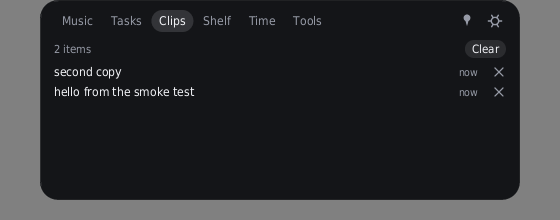
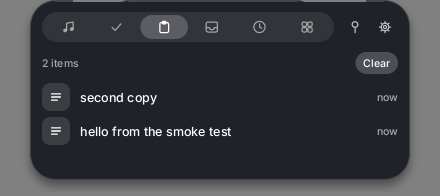
docs: glass UI screenshots, budgets and test results
Smoke tests: banner checks (a due to-do banners, a track change does
not), every tab captured on X11, new panel geometry. The Windows smokes
wait for an idle keyboard and mouse and capture only the pill window.
README and TESTING carry the new numbers; ADR-018 (no blur) and ADR-019
(Glass UI) record the decisions.

Changed region(s): [[0.0591, 0.0, 0.9159, 0.949], [0.7977, 0.0306, 0.9455, 0.8878]]

diff --git a/TESTING.md b/TESTING.md
@@ -19,7 +19,8 @@ Environments:
 | `cargo fmt --all --check` | Windows, container | clean |
 | `cargo clippy --workspace --all-targets -- -D warnings` | Windows (default features; GNU can't build `speech`) | clean (0 warnings) |
 | `cargo clippy --workspace --all-targets --all-features --locked -- -D warnings` | container | clean (0 warnings) |
-| `cargo test --workspace` | Windows | 316 passed, 0 failed, 5 ignored (opt-in hardware tests, run separately below) |
+| `cargo test --workspace` | Windows | 388 passed, 0 failed, 7 ignored (opt-in hardware tests, run separately below, and the release-only render budget) |
+| `cargo test --release -p perch-ui --test budget` | Windows | settled Music panel: **1.9 ms at 1×, 6.5 ms at 2×** (budgets 4 / 8 ms) |
 | `cargo test --workspace --all-features --locked` | container | all passed, 0 failed |
 | `cargo audit` | Windows | 0 vulnerabilities; 7 warnings: 6 unmaintained crates (paste, proc-macro-error, ttf-parser, zbus_names, zvariant, zvariant_derive) and `glib` 0.18 "unsound", which is only in the lockfile through `tray-icon`'s Linux GTK deps and is never compiled (tray-icon is Windows-only here; Linux uses ksni) |
 
@@ -38,8 +39,15 @@ What the tests cover (`cargo test` lists each one):
   picker, checksums and resampling. Opt-in tests that touch hardware are
   `#[ignore]`d: `audio` (makes sound), `camera` (switches the webcam on),
   `speech` end to end (downloads a model).
-- **ui**: screenshot overlay state (selection, crop, pen/arrow/text, copy),
-  mirror math, rendering of each panel tab without a window.
+- **ui**: screenshot overlay state (selection, crop, pen/arrow/text, copy)
+  and its glass toolbar, the rounded mirror frame, rendering of each panel
+  tab, the pill and banners without a window, glass components (rows,
+  sliders, switches), icons inside their boxes, cached shadows and glow,
+  fonts (Inter with lazily loaded fallback, tabular digits, eliding), the
+  settings form (groups, segmented choices, status rows, masked secrets).
+- **motion**: the spring (overshoot, settling, microsecond steps), the
+  notch open/close timing, tab and size motion, reduced motion, the banner
+  queue (4 s, hover pause, merging, cap of three).
 - **platform-linux** (container, private bus): MPRIS against a mock player,
   notifications and screen-lock signals (`--test mpris --test session_bus`),
   PulseAudio per-app volume against a null sink (`scripts/pulse-test.sh`).
@@ -50,21 +58,27 @@ Real windows, real synthetic input (`SendInput`), real SMTC. The scripts check
 that the mouse is idle before they start and never screenshot more than the
 notch area.
 
-### `scripts/smoke-windows.ps1`: 26/26 passed
+### `scripts/smoke-windows.ps1`: 28/28 passed
+
+It waits until the keyboard and mouse have been idle for 60 s (`scripts/lib-idle.ps1`),
+so it never fights a person at the machine, and captures only the pill window.
 
 Checks, in order: windows created; the pill and the 2 px hover strip exist with
 `TOOLWINDOW|NOACTIVATE|TOPMOST` and no `APPWINDOW` (no taskbar/Alt-Tab);
-hovering expands 200×32 → 440×132 and leaving collapses back; CLI
-`toggle-notch` pins open and closes; CLI `todo`; first frame < 300 ms
-(**87 ms**); clipboard records a normal copy, **skips a copy marked
+hovering expands 200×32 → 404×248 (380×236 plus the shadow margin) and
+leaving collapses back; CLI `toggle-notch` pins open and closes; CLI `todo`;
+**a to-do due in 2 s shows a banner that goes away by itself**; first frame
+< 300 ms (**85 ms**); clipboard records a normal copy, **skips a copy marked
 `ExcludeClipboardContentFromMonitorProcessing`**, then records the next one; a
 fullscreen window hides the pill and leaving fullscreen shows it again; screen
 time records the foreground app; the screenshot overlay opens, copies an image
 and closes; Perch **never takes the foreground**; idle private bytes
-**29.0 MB** (< 40 MB) after all of that.
+**26.5 MB** (< 40 MB) after all of that. (The fullscreen check now polls for
+up to 3 s: Perch re-checks the shell state 1.5 s after a focus change, and a
+fixed 1 s wait failed once.)
 
 Evidence: `artifacts/windows/smoke-results.json`, `perch-collapsed.png`,
-`perch-expanded.png`.
+`perch-expanded.png`, `perch-banner.png`.
 
 ### `scripts/smoke-media-windows.ps1`: 5/5 passed
 
@@ -127,12 +141,14 @@ All of it: `scripts/test-installer-windows.ps1`, 11/11 passed.
 
 `scripts/linux-ci.sh all` = `check test build smoke mpris pulse mail deb debinstall`.
 
-### X11 smoke (`scripts/smoke-x11.sh`): 32/32 passed, without and with picom
+### X11 smoke (`scripts/smoke-x11.sh`): 35/35 passed, without and with picom
 
 Checks: the pill and the hover strip are `_NET_WM_WINDOW_TYPE_DOCK` with
 `ABOVE + STICKY + SKIP_TASKBAR + SKIP_PAGER` and no strut; the collapsed pill is at
-the top centre; `xdotool` hover expands to 480×200 and
-leaving collapses; CLI over the Unix socket (toggle, todo, tab); **MPRIS
+the top centre; `xdotool` hover expands 200×32 → 380×236 (404×248 with
+the shadow margin under picom) and leaving collapses; a to-do due in 2 s
+**shows a banner, which goes away by itself**, while a track change shows
+none; CLI over the Unix socket (toggle, todo, tab); **MPRIS
 end to end** (mock player → D-Bus → Perch, paused with `playerctl`, resumed
 with `perch play-pause`); clipboard records `xclip` copies and **skips a
 KeePassXC-style `x-kde-passwordManagerHint` owner**; the screenshot overlay
@@ -141,10 +157,31 @@ un-fullscreen shows; screen time records apps; **`openbox --replace` (a WM
 restart) keeps `_NET_WM_STATE_ABOVE`**; idle RSS < 40 MB and 0 CPU ticks in
 10 s; `perch quit` exits cleanly.
 
-Measured: first frame 60–66 ms; idle RSS 36 MB after the whole run.
+Measured: first frame 61–86 ms; idle RSS 36 MB and 0 ms CPU over 10 s after
+the whole run. Every tab is captured pinned open (`x11-tab-*.png`); the
+README screenshots are crops of these.
 
 Evidence: `artifacts/linux/x11-smoke-{none,picom}.txt` and cropped
 `x11-*-{none,picom}.png`.
+
+Bugs the Glass UI runs found (fixed, with tests):
+
+- **Busy loop after a banner on X11** (idle check: 191 CPU ticks in 10 s,
+  ~90 % of a core). Each window resize comes back as a ConfigureNotify, so
+  the loop woke every few microseconds and stepped the f32 spring with a
+  `dt` it couldn't resolve. The value froze short of the target, the spring
+  never settled, and the loop fed itself. Found by bisecting the smoke steps
+  and a per-thread CPU dump (now part of the smoke's failure output). Fixed
+  by integrating the spring in f64 (`microsecond_steps_still_settle`) and
+  advancing animation at most once per frame.
+- **Idle memory doubled** (Windows 24 → 56 MB, Linux 36 → 69 MB): fontdue
+  keeps every glyph outline, and the full Inter weights plus DejaVu cost
+  49 MB. The fonts are subset (`scripts/subset-fonts.sh`) and DejaVu is
+  split in two (symbols and emoji; other scripts) and each part is loaded
+  only when needed (`fallback_is_parsed_only_when_a_character_needs_it`):
+  back to 24 MB / 36 MB, +6 MB once an emoji appears.
+- **Album glow cost 9 ms per frame at 2×**, caught by the render budget test.
+  It is now rendered once per size and colour pair and then blitted.
 
 ### Other Linux stages
 
@@ -187,8 +224,8 @@ Linux container.
 | forms: add-account dialog round trip, validation, presets fill server/port, masked password field | both | 2 passed (+1 mask test in `perch-ui`) |
 | keychain round trip, Windows Credential Manager (`platform-windows` unit test, throwaway `Perch/test:*` item) | Windows | passed |
 | keychain round trip, Secret Service (`platform-linux --test secrets`, throwaway GNOME Keyring on a private bus) | container | passed |
-| `scripts/mail-test.sh` (Perch release build vs. Dovecot, under Xvfb, password via `perch mail-password` into GNOME Keyring) | container | **17/17**: password in keyring and not in config; online over **TLS** and **STARTTLS** (private CA via `ca_file`); 4 unread listed; `Jürgen - Halo 😀` decoded; new message **pushed in ~620 ms**; **0 of 3 messages `\Seen` on the server**; wrong password reported, exactly one attempt per account; feature off closes all connections; add-account dialog opened with `perch mail-add`, **typed into with xdotool**, account saved, typed password in keyring only, dialog closed, account online; RSS 36 MB |
-| `scripts/mail-test-windows.ps1` (`perch.exe` vs. the same Dovecot on `localhost:1993`) | Windows | **10/10**: password in Credential Manager and not in config; online over TLS; 2 unread; subjects decoded; new message pushed in ~650 ms; 0 of 3 `\Seen`; 26.9 MB private; quits cleanly; test credential removed |
+| `scripts/mail-test.sh` (Perch release build vs. Dovecot, under Xvfb, password via `perch mail-password` into GNOME Keyring) | container | **19/19**: password in keyring and not in config; online over **TLS** and **STARTTLS** (private CA via `ca_file`); 4 unread listed; `Jürgen - Halo 😀` decoded; new message **pushed in ~640 ms**, shown as a **banner that goes away by itself**; **0 of 3 messages `\Seen` on the server**; wrong password reported, exactly one attempt per account; feature off closes all connections; add-account dialog opened with `perch mail-add`, **typed into with xdotool**, account saved, typed password in keyring only, dialog closed, account online; RSS 41 MB (three accounts, and an emoji subject loads the symbols font) |
+| `scripts/mail-test-windows.ps1` (`perch.exe` vs. the same Dovecot on `localhost:1993`) | Windows | **10/10**: password in Credential Manager and not in config; online over TLS; 2 unread; subjects decoded; new message pushed in ~700 ms; 0 of 3 `\Seen`; 25.2 MB private; quits cleanly; test credential removed |
 
 Bugs these runs found (fixed, with tests):
 

diff --git a/README.md b/README.md
@@ -58,6 +58,15 @@ StatusNotifierItem with an XEmbed fallback), a settings window, live reload of
 the config file, start-at-login, a hide-while-fullscreen option, global
 hotkeys, and a command line that talks to the running instance.
 
+Notifications (new mail, due to-dos, Pomodoro phases, reminders) appear as a
+**banner that grows out of the pill** for four seconds; hover it to keep it,
+click it to open the matching tab. They wait while a fullscreen app is
+active. System notifications are off by default and can be turned on in
+settings (`[notifications] system = true`).
+
+![A to-do banner in the notch](docs/img/banner.png)
+
+![Tasks tab with the Pomodoro ring](docs/img/panel-tasks.png)
 ![Clipboard tab](docs/img/panel-clips.png)
 
 ## Platform support
@@ -171,6 +180,7 @@ perch toggle-notch         open/close the panel
 perch pin                  keep the panel open until pinned again
 perch tab clips            open a tab: music tasks clips shelf mixer sounds time tools
 perch todo "buy milk"      add a to-do
+perch todo +10m Call Ann   ... due in 10 minutes (also +30s, +2h or 14:30)
 perch pomodoro             start/stop the Pomodoro timer
 perch play-pause | next | previous
 perch shot                 screenshot
@@ -217,6 +227,10 @@ screenshot = false
 camera_mirror = false
 speech_to_text = false     # perch-speech build; downloads a model once
 mail = false               # network: your IMAP servers, read-only
+
+[notifications]
+in_notch = true            # banners inside the notch
+system = false             # also Windows toasts / desktop notifications
 
 [hotkeys]
 toggle_notch = "Ctrl+Alt+N"
@@ -294,26 +308,28 @@ machines and environments, so they're listed separately.
 
 | Metric | Result | Source |
 |---|---|---|
-| Cold start (process start → first frame on screen) | 84–109 ms | `smoke-windows.ps1`; the app's own timer |
-| Idle private memory, default features | 23–25 MB | smoke test |
-| Idle private memory, 7 features on (media, to-do, Pomodoro, clipboard, shelf, reminders, screen time) | ~31 MB | 30-min soak |
+| Cold start (process start → first frame on screen) | 85 ms (84–109 ms over all runs) | `smoke-windows.ps1`; the app's own timer |
+| Idle private memory, default features | 24–26.5 MB (after opening every tab) | smoke test |
+| Idle private memory, 7 features on (media, to-do, Pomodoro, clipboard, shelf, reminders, screen time) | ~25–31 MB | 10- and 30-min soaks |
+| Render time, settled Music panel | 1.9 ms at 1×, 6.5 ms at 2× (budget 4 / 8 ms) | `tests/budget.rs`, release |
 | Idle CPU | 0 % (median 10 s interval ≤ 1 timer tick) | soak |
 | 30-min soak, leak check (machine in use) | PASS: private bytes −0.1 MB, handles +14, GDI/USER flat | `soak-windows.ps1` |
-| Idle private memory, mail on (one account, signed in, idling) | 26.9 MB | `mail-test-windows.ps1` |
-| `perch.exe` size (all default features) | 8.6 MB (mail adds 0.35 MB) | release build, GNU toolchain |
-| Installer / portable zip | 3.2 MB / 4.0 MB | `package-windows.ps1` |
+| 10-min soak after the Glass UI | PASS: private bytes +0.01 MB, handles −2, GDI/USER flat, CPU at rest 0 % | `soak-windows.ps1 -Minutes 10` |
+| Idle private memory, mail on (one account, signed in, idling) | 25.2 MB | `mail-test-windows.ps1` |
+| `perch.exe` size (all default features) | 8.8 MB (fonts subset; mail adds 0.35 MB) | release build, GNU toolchain |
+| Installer / portable zip | 3.5 MB / 4.3 MB | `package-windows.ps1` |
 
 ### Linux (ubuntu-22.04 container: Xvfb + openbox, 8 vCPUs on the same host)
 
 | Metric | Result | Source |
 |---|---|---|
-| Cold start (first frame) | ~60–66 ms | `smoke-x11.sh` |
-| Idle RSS after the full smoke run (6 features, screenshot used) | ~36 MB | smoke test |
+| Cold start (first frame) | 61–86 ms | `smoke-x11.sh` |
+| Idle RSS after the full smoke run (7 features, every tab opened, screenshot used) | ~36 MB | smoke test |
 | Idle RSS, 7 everyday features | ~34 MB | 30-min soak |
 | Idle CPU | 0 ticks in 10 s | smoke test + soak |
 | 30-min soak, leak check | PASS: RSS +1.1 MB, fds flat, CPU at rest 0 % | `soak-linux.sh` |
-| Idle RSS, mail on (three accounts signed in) | ~36 MB | `mail-test.sh` |
-| `perch` binary size / `.deb` | 12.3 MB / 4.2 MB | release build, `cargo deb` |
+| Idle RSS, mail on (three accounts signed in; an emoji subject loads the symbols font) | ~41 MB | `mail-test.sh` |
+| `perch` binary size / `.deb` | 12.5 MB / 4.5 MB | release build, `cargo deb` |
 | glibc required | 2.34 | `objdump -T` |
 
 Numbers from real Mint hardware will come from `scripts/mint-test.sh`, which
@@ -458,6 +474,12 @@ The main ones:
 - **NSIS per-user installer**, no admin needed (ADR-008).
 - **Heavy features are optional twice over:** cargo features at build time,
   and off by default at run time (ADR-010).
+- **Glass UI from cached primitives:** tokens, Inter with a DejaVu fallback,
+  vector icons, nine-slice shadows and spring motion that sleeps when
+  settled. Notifications appear as banners inside the notch. The render
+  budget (≤ 4 ms at 1×, ≤ 8 ms at 2×) is checked by a test (ADR-019).
+- **No acrylic blur (yet):** on Windows 11 the backdrop can't be confined
+  to the rounded shape of a per-pixel-transparent window (ADR-018).
 - **Unsafe code** only in thin OS wrappers, each block with a `// SAFETY:`
   comment. `#![forbid(unsafe_code)]` everywhere else.
 

diff --git a/docs/DECISIONS.md b/docs/DECISIONS.md
@@ -324,7 +324,10 @@ contain only the spike's two windows.
 | (c) no idle CPU | **Yes.** 0 ms of CPU over 4 s idle in every mode. |
 
 **Decision.** Blur stays off on every platform: the palette always uses the
-no-blur alphas (`Palette::resolve(.., blur = false)`), and there is no
+no-blur alphas (`Palette::resolve(.., blur = false)`). They were raised from
+the spec's 0.88 (dark) / 0.92 (light) to 0.94 / 0.96 after a Windows smoke
+capture showed text from the window behind reading through the open panel.
+There is no
 `[appearance] blur` setting, since a switch that can't do anything would only
 confuse. `Frame.blur` and the blur alphas stay in place for when it becomes
 possible. Things that could change this:
@@ -338,3 +341,61 @@ possible. Things that could change this:
 The settings window uses `apply_mica` (Mica backdrop on its title bar and a
 dark title bar in the dark theme). That works because it is an ordinary
 decorated window, where none of the problems above apply.
+
+## ADR-019: Glass UI
+
+The first UI was plain: flat fills, DejaVu text, letters for icons, linear
+timing. The redesign (spec `docs/superpowers/specs/2026-11-14-glass-ui-design.md`,
+chosen as "A · Glass" from three browser mockups) keeps the software renderer
+from ADR-001 and builds the look from a few cached primitives:
+
+- **Tokens.** One palette per theme (`theme.rs`: surface, three raised
+  levels, hairline border, top highlight, ok/error, and gradients for the
+  accent, mail and tasks) and one set of radii, spacing and type styles
+  (`tokens.rs`). Components only use tokens.
+- **Type.** Inter (Regular/Medium/Bold, SIL OFL) for Latin, Greek and
+  Cyrillic, with DejaVu kept as the fallback for everything Inter lacks
+  (emoji, symbols, more scripts). fontdue builds every glyph outline when it
+  loads a font, and the full files cost 49 MB of RAM, mostly OpenType
+  alternates fontdue can't reach without shaping. So the fonts are subset
+  (`scripts/subset-fonts.sh`: 110 KB per Inter weight), and DejaVu is split
+  in two (common symbols and emoji; other scripts and rare symbols), each
+  parsed only when a character needs it: 18 MB for Latin text, +6 MB once an
+  emoji appears, +6 MB more for another script. Digits can be drawn tabular (fontdue has no
+  OpenType `tnum`, so each digit is centred in the widest digit's advance),
+  so the seek-bar times and the Pomodoro countdown don't jitter.
+- **Icons.** About thirty vector icons on a 24-unit grid, stroked with round
+  caps, so they stay sharp at any scale (`icons.rs`).
+- **Depth.** A soft shadow as a nine-slice blurred mask, cached by radius and
+  blur and stretched to any size, so the opening animation doesn't rebuild
+  it. Album colours (two dominant colours from the cover, `core::palette`)
+  tint the Music panel with a glow that is rendered once per size and colour
+  pair and then blitted.
+- **Motion.** A critically damped spring (ζ = 0.75, overshoot ≤ 4 %) for the
+  notch's open/close, the pill width, the panel height and the tab
+  highlight. Content fades in after 40 % of the open. Every motion is stepped
+  by explicit time and returns its next deadline, so the event loop sleeps
+  as soon as everything settles: idle CPU stays at zero. Animation advances
+  at most once per frame interval, whatever wakes the loop. On X11 each
+  resize comes back as an event, and stepping on every one of them (with
+  microsecond `dt` that the f32 spring couldn't resolve) once turned a
+  banner into a self-feeding busy loop; the spring now integrates in f64.
+  The OS
+  reduced-motion setting (Windows `SPI_GETCLIENTAREAANIMATION`, GNOME/Cinnamon
+  `enable-animations`) snaps everything.
+- **Notifications in the notch.** New mail, due to-dos, Pomodoro phases and
+  reminders show as a banner that grows out of the pill (300×56) for 4 s,
+  pausing while hovered. At most three are queued, and extra mail merges into
+  "N new messages". Banners wait while a fullscreen app is active. System
+  toasts became opt-in (`[notifications] system`).
+- **Windows.** The settings window and dialogs use the same tokens: grouped
+  sections, switches, segmented choices, status dots for mail accounts, and
+  Mica on the Windows 11 title bar. The screenshot toolbar is a glass pill of
+  icon buttons, and the camera mirror has rounded corners.
+
+Budgets, checked by tests: a settled Music panel draws in ≤ 4 ms at 1× and
+≤ 8 ms at 2× (measured 1.9 / 6.5 ms on the Ryzen 7 3800X, release build);
+building a 380×300 shadow at 2× takes < 15 ms once, < 2 ms cached. Idle
+memory is where it was before the redesign (Windows: ~24 MB private);
+`perch.exe` grew from 8.6 to 9.2 MB. Acrylic blur was evaluated and not used
+(ADR-018).
